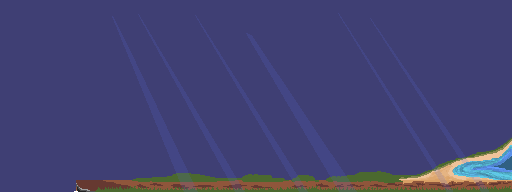
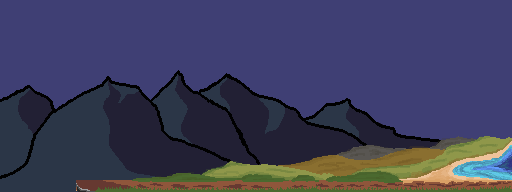
seem to be home

diff --git a/core/src/com/ggj/model/Background.java b/core/src/com/ggj/model/Background.java
@@ -1,6 +1,7 @@
 package com.ggj.model;
 
 import com.badlogic.gdx.Gdx;
+import com.badlogic.gdx.graphics.Color;
 import com.badlogic.gdx.graphics.Texture;
 import com.badlogic.gdx.graphics.g2d.Batch;
 import com.badlogic.gdx.graphics.g2d.TextureRegion;
@@ -14,9 +15,16 @@ public class Background {
   private TextureRegion regionCloudsFrontImage;
   private TextureRegion regionCloudsMiddleImage;
   private TextureRegion regionCloudsBehindImage;
+  private TextureRegion regionLight1Image;
+  private TextureRegion regionLight2Image;
   private float deltaMoveBehindCloud;
   private float deltaMoveMiddleCloud;
   private float deltaMoveFrontCloud;
+  private float time;
+  private float time2;
+  private boolean light1 = true;
+  private float scale = 1f;
+  private boolean growing = false;
 
   public Background() {
     deltaMoveMiddleCloud = 0;
@@ -26,6 +34,8 @@ public class Background {
     initializeCloudFront("model/environment/background/cloudsFront.png");
     initializeCloudMiddle("model/environment/background/cloudsMiddle.png");
     initializeCloudBehind("model/environment/background/cloudsBehind.png");
+    initializeLight1("model/environment/background/light1.png");
+    initializeLight2("model/environment/background/light2.png");
   }
 
 
@@ -50,9 +60,20 @@ public class Background {
   }
 
 
+  public void initializeLight1(String texturePath) {
+    Texture image = new Texture(Gdx.files.internal(texturePath));
+    regionLight1Image = new TextureRegion(image);
+  }
+
+  public void initializeLight2(String texturePath) {
+    Texture image = new Texture(Gdx.files.internal(texturePath));
+    regionLight2Image = new TextureRegion(image);
+  }
+
+
   public void draw(Batch batch, float parentAlpha) {
     batch.begin();
-    drawBackground(batch);
+    drawBackground(batch, parentAlpha);
     drawBehindCloud(batch, parentAlpha);
     drawMiddleCloud(batch, parentAlpha);
     drawFrontCloud(batch, parentAlpha);
@@ -60,9 +81,47 @@ public class Background {
 
   }
 
-  private void drawBackground(Batch batch) {
-//    batch.draw(regionBackgroundImage, 0, 0, 0, 0, Gdx.graphics.getWidth(), Gdx.graphics.getHeight() , GameConfig.SCALE, GameConfig.SCALE, 0);
+  private void drawBackground(Batch batch, float parentAlpha) {
+    time += parentAlpha;
     batch.draw(regionBackgroundImage, 0, 0, regionBackgroundImage.getRegionWidth() * GameConfig.SCALE, regionBackgroundImage.getRegionHeight() * GameConfig.SCALE);
+
+    if(time >= 0.1f && time2 <=0.1f) {
+      if (scale <= 0.1f) {
+        growing = true;
+        light1 = !light1;
+      } else if (scale >= 1.0f) {
+        growing = false;
+
+      }
+
+      if (growing) {
+        scale += 0.1f;
+      } else {
+        scale -= 0.1f;
+      }
+      time = 0;
+    }
+
+    if(scale >= 0.9f) {
+      time2= (float)Math.random() * 4;
+    }
+
+    time2 -= parentAlpha;
+
+    Color color = batch.getColor();
+    float oldAlpha = color.a;
+    color.a = oldAlpha*scale;
+    batch.setColor(color);
+
+    if (light1) {
+      batch.draw(regionLight1Image, 0, 0, regionLight1Image.getRegionWidth() * GameConfig.SCALE, regionLight1Image.getRegionHeight() * GameConfig.SCALE);
+    } else {
+      batch.draw(regionLight2Image, 0, 0, regionLight2Image.getRegionWidth() * GameConfig.SCALE, regionLight2Image.getRegionHeight() * GameConfig.SCALE);
+    }
+
+    color.a = oldAlpha;
+    batch.setColor(color);
+
   }
 
   private void drawFrontCloud(Batch batch, float parentAlpha) {
